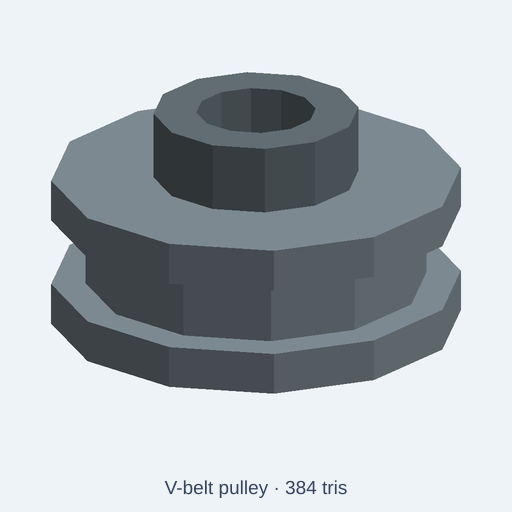
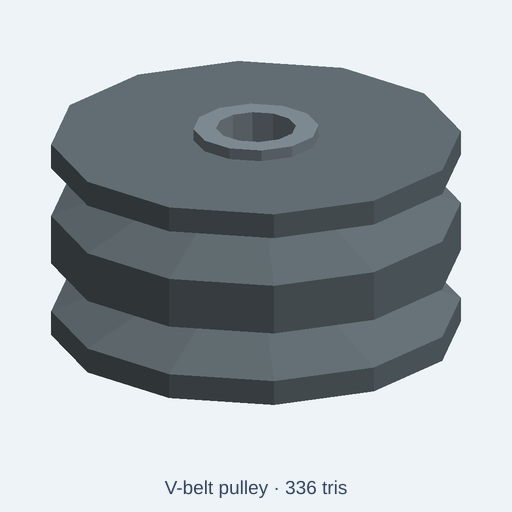
fix(catalog): model two genuine V-belt pulley grooves (#1371)

diff --git a/tests/integration/catalog/vBeltPulleyFidelity.test.ts b/tests/integration/catalog/vBeltPulleyFidelity.test.ts
@@ -1,0 +1,134 @@
+// SPDX-License-Identifier: MIT
+// V grooves must have sloped flanks, two distinct roots, and a continuously open bore.
+// A stack of flat cylindrical steps can evaluate and still fail this engineering identity.
+import { beforeAll, describe, expect, it } from 'vitest';
+import { readFileSync } from 'node:fs';
+import { resolve } from 'node:path';
+import { NodeIO } from '@gltf-transform/core';
+import { initOcct } from '../../../src/kernel/backends/occt/occtBackend';
+import { buildCatalogAssetWithGlb } from '../../../src/agent/catalog/buildCatalog';
+import { runAndExport } from '../../../src/agent/script-runtime/export';
+
+type V = [number, number, number];
+type Tri = [V, V, V];
+const root = resolve(import.meta.dirname, '../../..');
+const sourcePath = 'catalog/kits/standard-components/v-belt-pulley.kcad.ts';
+const sub = (a: V, b: V): V => [a[0]-b[0], a[1]-b[1], a[2]-b[2]];
+const dot = (a: V, b: V) => a[0]*b[0]+a[1]*b[1]+a[2]*b[2];
+const cross = (a: V, b: V): V => [a[1]*b[2]-a[2]*b[1], a[2]*b[0]-a[0]*b[2], a[0]*b[1]-a[1]*b[0]];
+function rayHits(tris: Tri[], start: V, direction: V): boolean {
+  return tris.some(tri => {
+    const edge1=sub(tri[1],tri[0]), edge2=sub(tri[2],tri[0]);
+    const p=cross(direction,edge2), determinant=dot(edge1,p);
+    if(Math.abs(determinant)<1e-9)return false;
+    const t=sub(start,tri[0]), u=dot(t,p)/determinant, q=cross(t,edge1);
+    const v=dot(direction,q)/determinant, distance=dot(edge2,q)/determinant;
+    return u>=-1e-7&&v>=-1e-7&&u+v<=1+1e-7&&distance>1e-6&&distance<200;
+  });
+}
+async function readMeshes(glb: Uint8Array, scale: number): Promise<Map<string,Tri[]>> {
+  // Low-poly positions are authored millimetres before scene-axis conversion.
+  const doc=await new NodeIO().readBinary(glb), parts=new Map<string,Tri[]>();
+  for(const node of doc.getRoot().listNodes()) {
+    const mesh=node.getMesh(); if(!mesh)continue;
+    const tris:Tri[]=[];
+    for(const primitive of mesh.listPrimitives()) {
+      const pos=primitive.getAttribute('POSITION')!, indices=primitive.getIndices();
+      const count=indices?indices.getCount():pos.getCount();
+      for(let i=0;i<count;i+=3)tris.push([0,1,2].map(k=>
+        pos.getElement(indices?indices.getScalar(i+k):i+k,[]).map(v=>v/scale) as V
+      ) as Tri);
+    }
+    parts.set(node.getName(),tris);
+  }
+  return parts;
+}
+function components(tris: Tri[]): number {
+  const parent=new Map<string,string>();
+  const find=(key:string):string=>{const p=parent.get(key)!;if(p===key)return key;const r=find(p);parent.set(key,r);return r;};
+  for(const tri of tris) {
+    const keys=tri.map(v=>v.map(x=>x.toFixed(4)).join(','));
+    for(const key of keys)if(!parent.has(key))parent.set(key,key);
+    for(const key of keys.slice(1))parent.set(find(key),find(keys[0]));
+  }
+  return new Set([...parent.keys()].map(find)).size;
+}
+// The low-poly GLB POSITION accessor is authored Z-up; node world transform converts for the renderer.
+function radialMaterial(tris: Tri[], r: number, z: number): boolean {
+  return rayHits(tris,[r,0,z],[1,0,0]);
+}
+function axialMaterial(tris: Tri[], r: number): boolean {
+  return rayHits(tris,[r,0,-5],[0,0,1]);
+}
+function bounds(tris: Tri[]) {
+  const vertices=tris.flat();
+  return {min:([0,1,2] as const).map(k=>Math.min(...vertices.map(v=>v[k]))),
+    max:([0,1,2] as const).map(k=>Math.max(...vertices.map(v=>v[k])))};
+}
+function verify(parts: Map<string,Tri[]>) {
+  expect([...parts.keys()].sort()).toEqual(['double-v-sheave','steel-bushing-envelope']);
+  const sheave=parts.get('double-v-sheave')!,bushing=parts.get('steel-bushing-envelope')!;
+  expect(components(sheave),'one connected grooved sheave').toBe(1);
+  expect(components(bushing),'one connected bushing ring').toBe(1);
+  const a=bounds(sheave), b=bounds(bushing);
+  expect(a.min[2]).toBeCloseTo(2,3);expect(a.max[2]).toBeCloseTo(38,3);
+  expect(b.min[2]).toBeCloseTo(0,3);expect(b.max[2]).toBeCloseTo(40,3);
+  for(const axis of [0,1]) {
+    expect(a.max[axis]-a.min[axis],'sheave nominal diameter').toBeCloseTo(72,2);
+    expect(b.max[axis]-b.min[axis],'bushing nominal OD').toBeCloseTo(22,2);
+  }
+  const radius=(tris:Tri[])=>[Math.min(...tris.flat().map(v=>Math.hypot(v[0],v[1]))),
+    Math.max(...tris.flat().map(v=>Math.hypot(v[0],v[1])))];
+  expect(radius(sheave)[0]).toBeCloseTo(11.05,2);
+  expect(radius(sheave)[1]).toBeCloseTo(36,2);
+  expect(radius(bushing)[0]).toBeCloseTo(7,2);
+  expect(radius(bushing)[1]).toBeCloseTo(11,2);
+  // Two roots separated by a full-diameter centre land. Verify actual triangle occupancy.
+  for(const z of [6.5,15.5,20,24.5,33.5])expect(radialMaterial(sheave,34,z),`land at Z=${z}`).toBe(true);
+  for(const z of [11,29])expect(radialMaterial(sheave,28,z),`open V root at Z=${z}`).toBe(false);
+  for(const z of [8.75,13.25,26.75,31.25])expect(radialMaterial(sheave,28,z),`sloped V flank at Z=${z}`).toBe(true);
+  // The false step model has no taper: it is empty at Z=7, R=20.5.
+  expect(radialMaterial(sheave,34,2.5),'full-diameter bottom lip').toBe(true);
+  expect(radialMaterial(sheave,34,37.5),'full-diameter top lip').toBe(true);
+  // Through axis, and a distinct unfilled gap between sheave and removable bushing.
+  for(const r of [0,6,11.025])expect(axialMaterial([...parts.values()].flat(),r),`shaft bore/clearance at R=${r}`).toBe(false);
+  expect(axialMaterial(bushing,8),'bushing ring intersects an axial ray at R=8').toBe(true);
+  expect(axialMaterial(sheave,12),'sheave body intersects an axial ray at R=12').toBe(true);
+}
+beforeAll(async()=>{await initOcct();},30000);
+describe('illustrative double V-belt pulley native identity',()=>{
+  for(const [size,scale] of [['standard',1],['compact',0.75],['large',1.25]] as const) {
+    it(`${size}: two genuine tapered V grooves and coaxial open bore`, async()=>{
+      const source=readFileSync(resolve(root,sourcePath),'utf8');
+      const built=await buildCatalogAssetWithGlb(root,sourcePath);
+      const code=source.replace("param('size', 'standard'",`param('size', '${size}'`);
+      const exported=size==='standard'?{bytes:built.glb,diagnostics:[]}:await runAndExport({
+        code,fileName:'v-belt-pulley.kcad.ts',scriptDir:resolve(root,'catalog/kits/standard-components'),
+        format:'glb',options:{format:'glb',style:'lowpoly',lowpoly:{maxTriangles:built.asset.triangleBudget}},
+      });
+      expect(exported.diagnostics.filter(d=>d.severity==='error')).toEqual([]);
+      verify(await readMeshes(exported.bytes,scale));
+      expect(built.asset.description).toMatch(/illustrative CC0/i);
+      expect(built.asset.description).toMatch(/two tapered annular grooves/i);
+      expect(built.asset.description).toMatch(/not manufacturer-grade CAD/i);
+      expect(built.asset.description).toMatch(/load ratings are not specified/i);
+      expect(built.asset.stats.triangles).toBeLessThanOrEqual(built.asset.triangleBudget);
+      expect(built.asset.stats.minUpM).toBeCloseTo(0,6);
+    },60000);
+  }
+  it('original production source is a flat single-step silhouette, not a double-V sheave',async()=>{
+    const originalPath=resolve(root,'docs/quality/evidence/v-belt-pulley-20261113/original-source.kcad.ts');
+    const source=readFileSync(originalPath,'utf8');
+    const exported=await runAndExport({code:source,fileName:'original-v-belt-pulley.kcad.ts',
+      scriptDir:resolve(root,'catalog/kits/standard-components'),format:'glb',
+      options:{format:'glb',style:'lowpoly',lowpoly:{maxTriangles:420}},
+    });
+    expect(exported.diagnostics.filter(d=>d.severity==='error')).toEqual([]);
+    const parts=await readMeshes(exported.bytes,1),all=[...parts.values()].flat();
+    expect(parts.size).toBe(4);
+    expect(radialMaterial(all,28,8.75),'original flat-step cannot form correct first groove flank').toBe(false);
+    expect(radialMaterial(all,28,11),'original same-depth flat bottom').toBe(false);
+    expect(radialMaterial(all,28,13.25),'original same-depth flat bottom').toBe(false);
+    expect(()=>verify(parts),'original must fail semantic contract').toThrow();
+  },60000);
+});

diff --git a/catalog/kits/standard-components/v-belt-pulley.kcad.ts b/catalog/kits/standard-components/v-belt-pulley.kcad.ts
@@ -1,9 +1,9 @@
-// Distinctive geometry: Stepped V-belt pulley with two shallow belt grooves and a through bore
+// Two actual tapered V grooves and a continuous bore; CC0 illustrative, not a rated drive sheave.
 meta({
   name: 'v-belt-pulley',
   license: 'CC0-1.0',
   title: 'V-belt pulley',
-  description: 'Stepped V-belt pulley with two shallow belt grooves and a through bore Knobs: model size, steel, cast iron.',
+  description: 'Illustrative CC0 double-V belt pulley with two tapered annular grooves, a continuous 14 mm shaft bore and a distinct steel bushing envelope. The two illustrative V sections have approximately 41-degree included angles. Not manufacturer-grade CAD: belt section, bushing fit, keyway, tolerances, torque and load ratings are not specified. Knobs change model size and appearance colors only.',
   tags: ['v-belt pulley', 'sheave', 'belt drive', 'shaft'],
   kit: 'standard-components',
   category: 'attachment',
@@ -13,8 +13,8 @@ meta({
 });
 
 const size = param('size', 'standard', { choices: ['compact', 'standard', 'large'], label: 'Model size' });
-const steel = param('steel', '#85929a', { label: 'Steel' });
-const castIron = param('castIron', '#68747a', { label: 'Cast iron' });
+const steel = param('steel', '#85929a', { label: 'Bushing appearance color' });
+const castIron = param('castIron', '#68747a', { label: 'Sheave appearance color' });
 presets({
   dark: { steel: '#3e484e', castIron: '#3b4246' },
   brass: { steel: '#646f75', castIron: '#69645b' },
@@ -23,8 +23,22 @@ presets({
 
 const s = size.value === 'compact' ? 0.75 : size.value === 'large' ? 1.25 : 1;
 const a = assembly('v-belt-pulley');
-a.part('hub',cylinder(24*s,12*s,8).subtract(cylinder(26*s,7*s,8).translate(0,0,-s)).translate(0,0,2*s).color(castIron));
-a.part('rim-lower',cylinder(5*s,24*s,8).subtract(cylinder(7*s,7*s,8).translate(0,0,-s)).color(steel));
-a.part('rim-mid',cylinder(8*s,20*s,8).subtract(cylinder(10*s,7*s,8).translate(0,0,-s)).translate(0,0,5*s).color(steel));
-a.part('rim-upper',cylinder(5*s,24*s,8).subtract(cylinder(7*s,7*s,8).translate(0,0,-s)).translate(0,0,13*s).color(steel));
+// A closed radial/axial profile revolves about the shaft (Z) axis.
+// 36 mm rim radius; two 12 mm-deep roots at z=11 and z=29 mm.
+// Their 9 mm mouths give about a 41-degree included V angle. This is not an ISO belt profile.
+const turn = (points: [number, number][]) => {
+  let profile = path().moveTo(points[0][0] * s, points[0][1] * s);
+  for (const [radius, z] of points.slice(1)) profile = profile.lineTo(radius * s, z * s);
+  return profile.close().revolve();
+};
+// The shell is one connected piece, not three stacked cylinders imitating grooves.
+// The 0.05 mm radial clearance to the insert is illustrative, not a rated fit.
+a.part('double-v-sheave', turn([
+  [11.05, 2], [36, 2], [36, 6.5], [24, 11], [36, 15.5],
+  [36, 24.5], [24, 29], [36, 33.5], [36, 38], [11.05, 38],
+]).color(castIron));
+// Physically distinct through-bore bushing, slightly proud at both axial ends.
+a.part('steel-bushing-envelope', turn([
+  [7, 0], [11, 0], [11, 40], [7, 40],
+]).color(steel));
 return a.model();

diff --git a/docs/quality/evidence/v-belt-pulley-20261113/original-source.kcad.ts b/docs/quality/evidence/v-belt-pulley-20261113/original-source.kcad.ts
@@ -1,0 +1,30 @@
+// Distinctive geometry: Stepped V-belt pulley with two shallow belt grooves and a through bore
+meta({
+  name: 'v-belt-pulley',
+  license: 'CC0-1.0',
+  title: 'V-belt pulley',
+  description: 'Stepped V-belt pulley with two shallow belt grooves and a through bore Knobs: model size, steel, cast iron.',
+  tags: ['v-belt pulley', 'sheave', 'belt drive', 'shaft'],
+  kit: 'standard-components',
+  category: 'attachment',
+  origin: 'base',
+  compat: ['mechanical', 'industrial', 'workshop', 'assembly'],
+  triangleBudget: 420,
+});
+
+const size = param('size', 'standard', { choices: ['compact', 'standard', 'large'], label: 'Model size' });
+const steel = param('steel', '#85929a', { label: 'Steel' });
+const castIron = param('castIron', '#68747a', { label: 'Cast iron' });
+presets({
+  dark: { steel: '#3e484e', castIron: '#3b4246' },
+  brass: { steel: '#646f75', castIron: '#69645b' },
+  weathered: { steel: '#665b4d', castIron: '#4d4b46' }
+});
+
+const s = size.value === 'compact' ? 0.75 : size.value === 'large' ? 1.25 : 1;
+const a = assembly('v-belt-pulley');
+a.part('hub',cylinder(24*s,12*s,8).subtract(cylinder(26*s,7*s,8).translate(0,0,-s)).translate(0,0,2*s).color(castIron));
+a.part('rim-lower',cylinder(5*s,24*s,8).subtract(cylinder(7*s,7*s,8).translate(0,0,-s)).color(steel));
+a.part('rim-mid',cylinder(8*s,20*s,8).subtract(cylinder(10*s,7*s,8).translate(0,0,-s)).translate(0,0,5*s).color(steel));
+a.part('rim-upper',cylinder(5*s,24*s,8).subtract(cylinder(7*s,7*s,8).translate(0,0,-s)).translate(0,0,13*s).color(steel));
+return a.model();

diff --git a/docs/quality/v-belt-pulley-2026-11-13.md b/docs/quality/v-belt-pulley-2026-11-13.md
@@ -1,0 +1,44 @@
+# Two V grooves rather than one flat step
+
+November 13, 2026. This is an illustrative CC0 scene asset, **not** a manufacturer-certified V-belt drive component. Do not use the model for groove-standard fit, shaft fit, transmission torque, loading, tolerance or material specifications.
+
+## Confirmed defect
+
+The published [V-belt pulley](https://kernelcad.com/catalog/standard-components/v-belt-pulley/) was four stacked cylindrical rings. Its source says it has **two** belt grooves, but the actual outside profile had **one flat annular step**, no taper-sided V flanks and no second groove. The normal source evaluation passed and its PNG looked superficially like a pulley. Color or transport checks did not expose the mismatch.
+
+## Focused repair
+
+The new main sheave is one connected revolved profile, not stacked cylinders. Its nominal **72 mm diameter** has two **12 mm deep** annular V grooves at axial positions 11 and 29 mm, with **9 mm top mouth** and an approximately **41-degree included angle**. The distinct steel bushing envelope has a continuous **14 mm diameter bore** and extends 2 mm beyond either sheave end. The main sheave and bushing are two separately named solids with an illustrative 0.05 mm radial gap. The overall axial envelope is 40 mm. This is a new illustrative envelope, **not** a backwards-compatible vendor fit or a verified ISO groove section.
+
+The three original compact/standard/large scaling choices and existing parameter names/presets remain. Their steel/cast-iron parameters now explicitly label **appearance colors only**, not real material grades.
+
+![Native before/after isometric, side and front renders](evidence/v-belt-pulley-20261113/before-after.png)
+
+The [six-second native comparison](evidence/v-belt-pulley-20261113/native-comparison.mp4) shows the original flat-step side silhouette and new taper-sided double-V profile. These are actual native OCCT-to-GLB software renders, **not** motion simulation, WebGL/browser acceptance or physical belt engagement tests. Retained original source is in [the negative-control fixture](evidence/v-belt-pulley-20261113/original-source.kcad.ts).
+
+## Native regression and integration results
+
+`tests/integration/catalog/vBeltPulleyFidelity.test.ts` runs compact, standard and large presets, and an original-source negative control. It measures actual GLB vertices and ray intersections:
+
+- The individual sheave and bushing are each connected, named solids. Sheave OD 72 mm, axial span 2–38 mm; bushing OD 22 mm, axial span 0–40 mm.
+- Both V roots are open at radius 28 mm. Their four intermediate flanks are occupied at that same radius; the three full-radius land regions remain.
+- The 14 mm center bore and 0.05 mm illustrative bushing clearance are open along the complete axial length, with positive occupancy controls through the bushing ring and sheave body.
+- The original published source compiles but fails the two-groove/taper acceptance tests; the negative-control case checks this.
+
+**8/8 focused tests pass:** 4/4 geometry and negative controls plus 4/4 existing catalog module integration. Targeted ESLint and **2,402/2,402** source/index hash checks pass. The repaired native preview has **336 triangles**, below the original unchanged 420-triangle budget. This is not a complete clean package test; exact-head repository CI, including native `catalog-index`, remains the merge gate.
+
+```sh
+NODE_OPTIONS=--max-old-space-size=2048 node node_modules/vitest/vitest.mjs run \
+  tests/integration/catalog/vBeltPulleyFidelity.test.ts \
+  tests/integration/catalog/assetModule.test.ts \
+  --maxWorkers=1 --no-file-parallelism
+node node_modules/eslint/bin/eslint.js \
+  tests/integration/catalog/vBeltPulleyFidelity.test.ts \
+  catalog/kits/standard-components/v-belt-pulley.kcad.ts
+```
+
+Node 24.22.2, reused dependencies, one worker, 2 GiB heap. Per-asset evidence is preserved in the 2026-11-13 work-1 audit ledger. The separate 66-asset sweep has **63 native default passes and three catalog dependency blockers**, and is **not** declared manufacturer-grade acceptance for all 66.
+
+## Release gate
+
+Normal code review and exact-head CI must pass before merge. After the server's marketing publication and cache purge, verify actual source and both PNG routes by byte hash, per-part page/Studio action and rerun these geometry controls against the **downloaded production source**. Do not claim deployment on PR merge alone.
